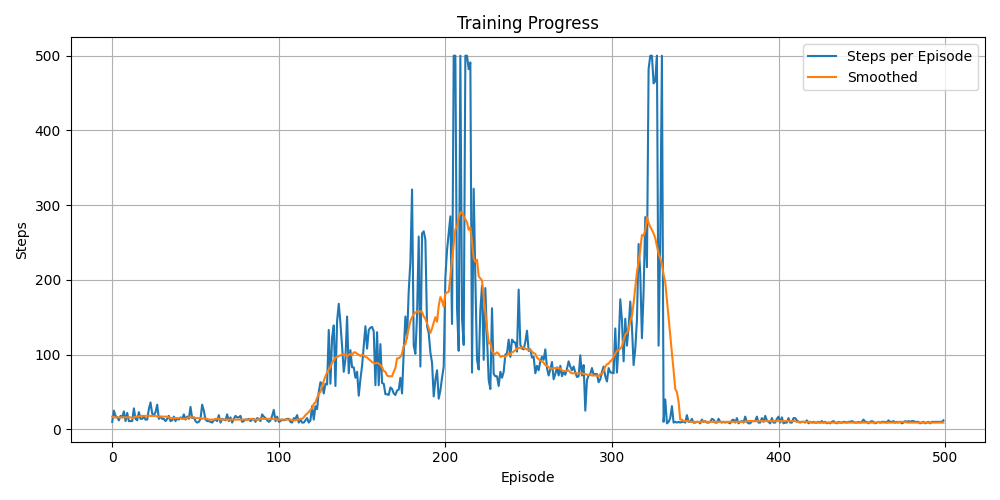
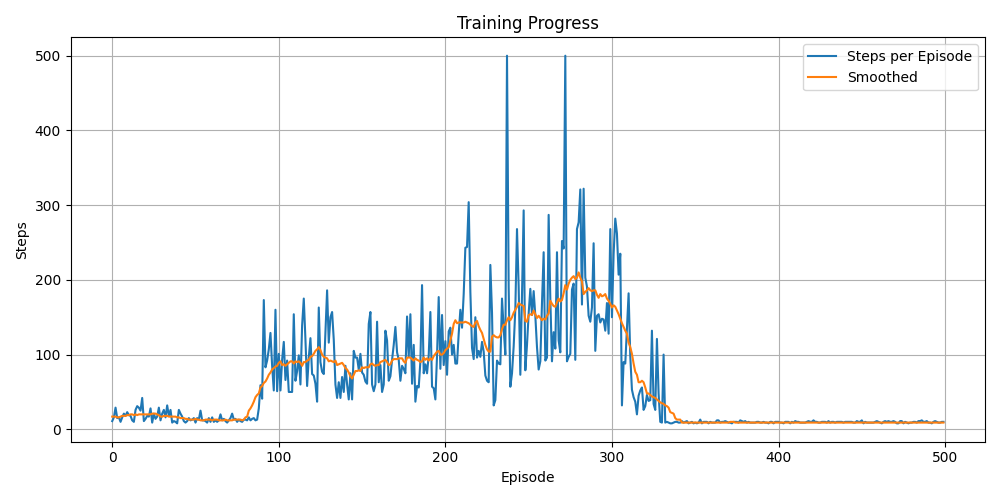
fix double dqn, add comments, update readme

Changed region(s): [[0.093, 0.09, 0.93, 0.87]]

diff --git a/src/ai/Middleman.py b/src/ai/Middleman.py
@@ -14,14 +14,14 @@ class Middleman:
         self.env = env
         state, info = self.env.reset()
         
-        self.n_observations = len(state)
-        self.n_actions = self.env.action_space.n # only for discrete action spaces
-        
-        self.policy_net = DQN(self.n_observations, [128, 128], self.n_actions)
-        self.target_net = DQN(self.n_observations, [128, 128], self.n_actions)
+        self.n_observations = len(state) # input to network
+        self.n_actions = self.env.action_space.n # output to network, only for discrete action spaces
+                
+        self.policy_net = DQN(self.n_observations, [128, 128], self.n_actions) # policy net used to select actions, updated every step
+        self.target_net = DQN(self.n_observations, [128, 128], self.n_actions) # target net used to evaluate actions, only updated every 100 steps
         self.target_net.load(self.policy_net)
 
-        self.memory = ReplayMemory(params.REPLAY_BUFFER_SIZE)
+        self.memory = ReplayMemory(params.REPLAY_BUFFER_SIZE) # initialize replay buffer
         
         self.steps_done = 0
         
@@ -31,13 +31,13 @@ class Middleman:
             math.exp(-1. * self.steps_done / params.EPS_DECAY)
         self.steps_done += 1
         
-        if sample > eps_threshold:
-            q_values = self.policy_net.forward(state)
-            return np.array([[np.argmax(q_values)]])  # pick best action
-        else:
+        if sample > eps_threshold: # eps used for exploration, only use network 1-eps of the time
+            q_values = self.policy_net.forward(state) # get q values from network
+            return np.array([[np.argmax(q_values)]])  # select best action from q values
+        else: # randomly select action, used eps of the time
             return np.array([[self.env.action_space.sample()]])
         
-    def huber_loss(self, y_true, y_pred, delta=1.0):
+    def huber_loss(self, y_true, y_pred, delta=1.0): # loss function
         error = y_true - y_pred
         abs_error = np.abs(error)
         quadratic = np.minimum(abs_error, delta)
@@ -49,7 +49,7 @@ class Middleman:
         if len(self.memory) < params.BATCH_SIZE:
             return None, None
         
-        transitions = self.memory.sample(batch_size=params.BATCH_SIZE)
+        transitions = self.memory.sample(batch_size=params.BATCH_SIZE) # our batch
         
         # transpose the batch (batch-array of transitions -> transition of batch-arrays)
         """
@@ -61,11 +61,11 @@ class Middleman:
             done=(d0, d1, d2)
         )
         """
-        batch = Transition(*zip(*transitions))
+        batch = Transition(*zip(*transitions)) # transform the batch data into a more digestible format
         
-        non_final_mask = np.array([s is not None for s in batch.next_state], dtype=bool)
+        non_final_mask = np.array([s is not None for s in batch.next_state], dtype=bool) # mask out the non-terminal experiences from sample
         non_final_next_states_list = [s for s in batch.next_state if s is not None]
-        state_dim = batch.state[0].shape[1]
+        state_dim = batch.state[0].shape[1] # dimensionality of each state, excluding batch dimension
         
         if non_final_next_states_list:
             non_final_next_states = np.concatenate(non_final_next_states_list, axis=0)
@@ -74,24 +74,29 @@ class Middleman:
         
         state_batch = np.concatenate(batch.state)
         action_batch = np.concatenate(batch.action)
-        reward_batch = np.concatenate(batch.reward)
+        reward_batch = np.concatenate(batch.reward).reshape(-1, 1)
         
         # shape (params.BATCH_SIZE, self.n_actions)
         batch_indices = np.arange(action_batch.shape[0])
         action_indices = action_batch.flatten()
-        full_q_values = self.policy_net.forward(state_batch)
-        state_action_values = full_q_values[batch_indices, action_indices][:, np.newaxis]
         
+        # evaluate q values of the next state with target net
         next_state_values = np.zeros((params.BATCH_SIZE, 1))
-        next_state_values[non_final_mask] = np.max(self.target_net.forward(non_final_next_states), axis=1, keepdims=True)
+        next_q_policy = self.policy_net.forward(non_final_next_states)
+        best_actions = np.argmax(next_q_policy, axis=1)
+        next_q_target = self.target_net.forward(non_final_next_states)
+        target_q_values = next_q_target[np.arange(len(best_actions)), best_actions]
+        next_state_values[non_final_mask] = target_q_values[:, np.newaxis]
 
-        expected_state_action_values = (next_state_values * params.GAMMA) + reward_batch
+        expected_state_action_values = (next_state_values * params.GAMMA) + reward_batch # bellman eq for q value of current states
+        full_q_values = self.policy_net.forward(state_batch) # run the batch through the policy net
+        state_action_values = full_q_values[batch_indices, action_indices][:, np.newaxis] # filter for q values for actions that were actually taken in our batch
         
         # huber loss (mean absolute error when error is large to avoid crazy loss with mean squared error)
         loss_value, grad_loss_output = self.huber_loss(expected_state_action_values, state_action_values)
         
         # backprop the gradient through nn
-        grad_full = np.zeros_like(full_q_values)
+        grad_full = np.zeros_like(full_q_values) # initialize gradient matrix to zero, will only backprop for actions that were actually taken
         grad_full[batch_indices, action_indices] = grad_loss_output.flatten()
         self.policy_net.backward(grad_full)
         
@@ -106,7 +111,7 @@ class Middleman:
     # def copy_policy_to_target(self):
     #     self.target_net.load(self.policy_net)
         
-    def train(self, render=False, log_progress=False):
+    def train(self, render=False, log_progress=False): # run multiple episodes of training, interacting with the env and updating the policy
         best_duration = 0
         steps_per_episode = []
 

diff --git a/src/ai/DQN.py b/src/ai/DQN.py
@@ -6,35 +6,35 @@ import numpy as np
 
 class DQN:
     def __init__(self, input_dim: int, hidden_dims: list, output_dim: int):
-        self.layers = [Linear(input_dim, hidden_dims[0])]
+        self.layers = [Linear(input_dim, hidden_dims[0])] # first layer is just input->first hidden
         
         for i in range(1, len(hidden_dims)):
-            self.layers.append(Linear(hidden_dims[i - 1], hidden_dims[i]))
+            self.layers.append(Linear(hidden_dims[i - 1], hidden_dims[i])) # add hidden layers
             
-        self.layers.append(Linear(hidden_dims[-1], output_dim))
+        self.layers.append(Linear(hidden_dims[-1], output_dim)) # add last hidden->output
         
-    def forward(self, x):
+    def forward(self, x): # feed an input through the network
         for i, layer in enumerate(self.layers):
-            x = layer.forward(x)
+            x = layer.forward(x) # feed the current data through the next layer
             if i < len(self.layers) - 1:
-                x = relu(x)
+                x = relu(x) # apply ReLu activation except on final layer
         return x
     
-    def load(self, other: 'DQN'):
+    def load(self, other: 'DQN'): # copy weights and biases from another dqn (used for target net sync)
         assert len(self.layers) == len(other.layers), "Layer count mismatch"
 
         for self_layer, other_layer in zip(self.layers, other.layers):
             self_layer.weights = np.copy(other_layer.weights)
             self_layer.biases = np.copy(other_layer.biases)
 
-    def clip_gradients(self, max_val):
+    def clip_gradients(self, max_val): # clip gradients to prevent exploding updates during backprop
         for layer in self.layers:
             layer.clip_gradients(max_val)
             
-    def backward(self, grad_output):
+    def backward(self, grad_output): # backprop
         for i in reversed(range(len(self.layers))):
             grad_output = self.layers[i].backward(grad_output)
 
-    def update(self, lr):
+    def update(self, lr): # apply gradient descent step using learning rate
         for layer in self.layers:
             layer.update(lr)

diff --git a/src/ai/Linear.py b/src/ai/Linear.py
@@ -3,29 +3,29 @@ import numpy as np
 
 class Linear(Layer):
     def __init__(self, input_dim, output_dim):
-        self.weights = np.random.randn(input_dim, output_dim) * np.sqrt(2. / input_dim)
-        self.biases = np.zeros((1, output_dim))
+        self.weights = np.random.randn(input_dim, output_dim) * np.sqrt(2. / input_dim) # the weights of each node, shape (input_dim, output_dim)
+        self.biases = np.zeros((1, output_dim)) # biases of each node shape: (1, output_dim)
         # self.input
         # self.grad_weights
         # self.grad_biases
 
     def forward(self, input):
         self.input = input
-        return input @ self.weights + self.biases
+        return input @ self.weights + self.biases # multiply input matrix by weights and add biases
     
     def clip_gradients(self, max_val):
         np.clip(self.grad_weights, -max_val, max_val, out=self.grad_weights)
         np.clip(self.grad_biases, -max_val, max_val, out=self.grad_biases)
 
     def backward(self, grad_output):
-        # grad_output shape (batch_size, output_dim)
+        # grad_output: gradient of loss with respect to output of this layer, shape (batch_size, output_dim)
         
-        self.grad_weights = self.input.T @ grad_output # (input_dim, output_dim)
+        self.grad_weights = self.input.T @ grad_output # shape (input_dim, output_dim)
         self.grad_biases = np.sum(grad_output, axis=0, keepdims=True) # (1, output_dim)
-        grad_input = grad_output @ self.weights.T # (batch_size, input_dim)
+        grad_input = grad_output @ self.weights.T # grad_output for the next layer (batch_size, input_dim)
         
         return grad_input
     
-    def update(self, lr):
+    def update(self, lr): # update weights and biases with grad_weights and grad_biases and learning rate
         self.weights -= lr * self.grad_weights
         self.biases -= lr * self.grad_biases

diff --git a/README.md b/README.md
@@ -2,20 +2,19 @@
 
 A very simple DQN to learn more about reinforcement learning in premade gymnasium environments.
 
+Name is like yaml -> yet another dqn
+
 ## Environment
 
-https://gymnasium.farama.org/environments/box2d/car_racing/
+https://gymnasium.farama.org/environments/classic_control/cart_pole/
 
-## Goals
+## Notes
 
-Fast and accurate car with minimal training
+Followed https://docs.pytorch.org/tutorials/intermediate/reinforcement_q_learning.html to learn
 
-Good code
+Didn't use pytorch, wrote everything from scratch with NumPy
 
-## Features
+## Issues
 
-* Q network
-    * Feed forward NN
-    * Epsilon greedy exploration vs exploitation
-    * Q Network
-    * 2 hidden layers
+- The model experiences an exploration phase for the first 100-150 episodes, and then rapidly reaches max steps (500)
+  - However, after ~10-20 episodes at max steps, the model becomes overconfident and Q values explode, causing it to reset down to 10 steps
